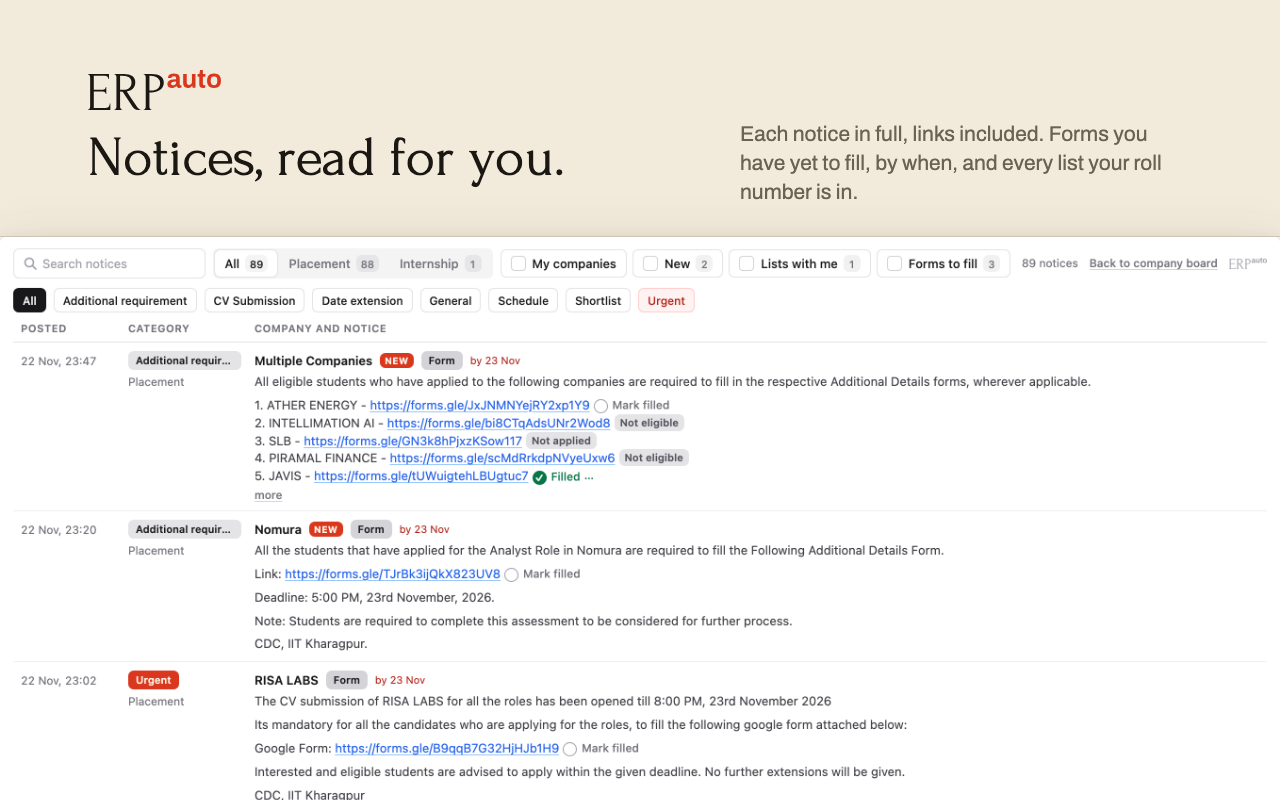
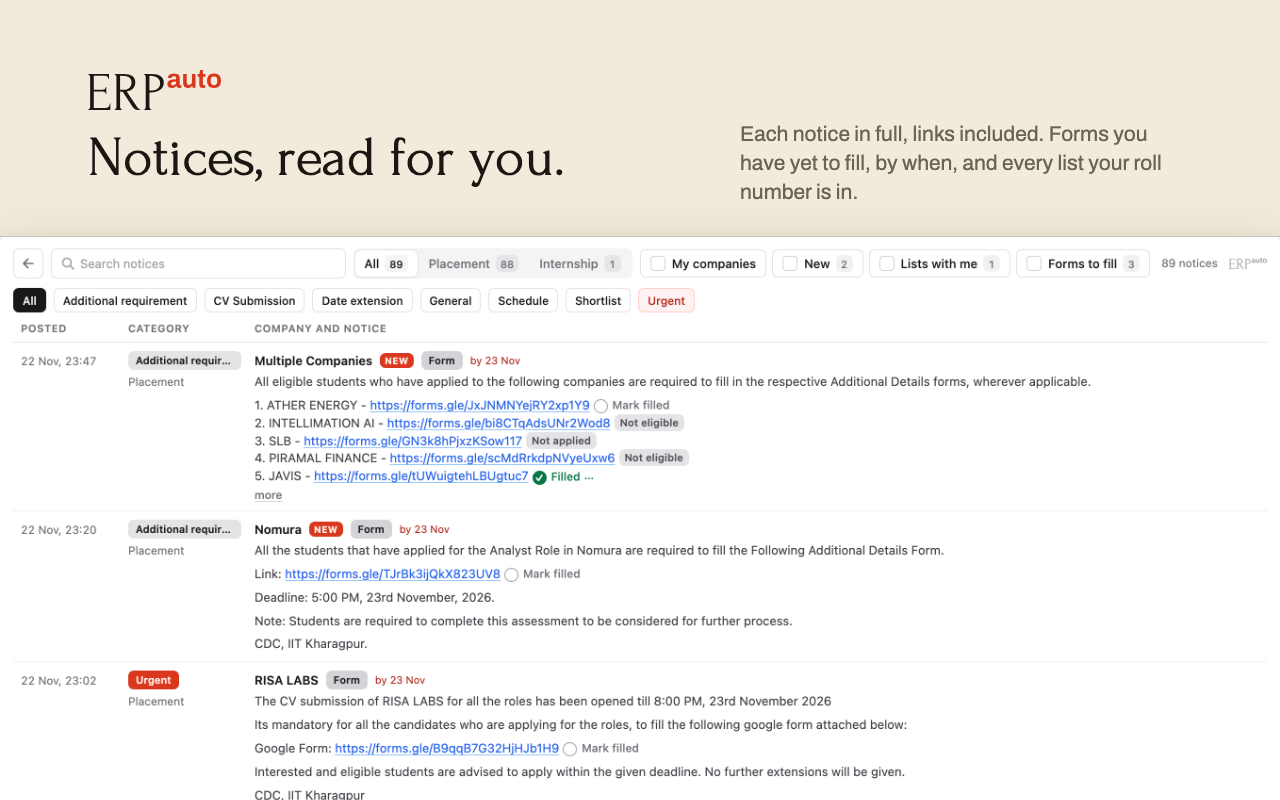
feat: notice board back button is an arrow beside the search box

Changed region(s): [[0.1562, 0.3125, 0.6562, 0.3438], [0.6875, 0.3125, 0.9375, 0.3438], [0.0312, 0.3125, 0.125, 0.3438]]

diff --git a/extension-src/chrome/js/cdc-notices.js b/extension-src/chrome/js/cdc-notices.js
@@ -42,6 +42,9 @@ cdcSwitch(async (wanted) => {
         .text .gap { display: block; height: 6px; }
         .text a { color: #2563eb; text-decoration-color: #93c5fd; text-underline-offset: 2px; }
         .text a:hover { color: #1d4ed8; text-decoration-color: currentColor; }
+        #back { display: inline-flex; align-items: center; justify-content: center; flex: none; width: 32px; height: 32px; border: 1px solid var(--line);
+                border-radius: 6px; background: var(--paper); color: var(--muted); }
+        #back:hover { border-color: #d4d4d8; color: var(--ink); }
         #cats button { height: 26px; padding: 0 9px; border-radius: 6px; font-size: 12px; }
         /* Red only for urgency: under-6h deadlines, NEW and Urgent notices. */
         #cats button[data-cat="Urgent"]:not(.picked) { border-color: #fecdca; background: #fef3f2; color: var(--red-text); }
@@ -59,6 +62,8 @@ cdcSwitch(async (wanted) => {
         <section class="card" aria-label="AutoERP notice board">
             <div class="top">
                 <div class="bar">
+                    <a id="back" href="TPStudent.jsp" aria-label="Back to company board" title="Back to company board"><svg width="16" height="16" viewBox="0 0 16 16"
+                        fill="none" stroke="currentColor" stroke-width="1.6" stroke-linecap="round" stroke-linejoin="round" aria-hidden="true"><path d="M13 8H3M7.5 3.5 3 8l4.5 4.5"/></svg></a>
                     <input type="search" id="search" placeholder="Search notices" aria-label="Search notices">
                     <div class="seg" role="tablist">
                         <button id="type-all" class="picked">All<span class="n">0</span></button>
@@ -76,7 +81,6 @@ cdcSwitch(async (wanted) => {
                 </div>
                 <div class="head">
                     <small id="count"></small>
-                    <a class="link" id="back" href="TPStudent.jsp">Back to company board</a>
                 </div>
             </div>
             <div class="bar chips" id="cats"><button data-cat="" class="picked">All</button></div>

diff --git a/extension-src/firefox/js/cdc-notices.js b/extension-src/firefox/js/cdc-notices.js
@@ -42,6 +42,9 @@ cdcSwitch(async (wanted) => {
         .text .gap { display: block; height: 6px; }
         .text a { color: #2563eb; text-decoration-color: #93c5fd; text-underline-offset: 2px; }
         .text a:hover { color: #1d4ed8; text-decoration-color: currentColor; }
+        #back { display: inline-flex; align-items: center; justify-content: center; flex: none; width: 32px; height: 32px; border: 1px solid var(--line);
+                border-radius: 6px; background: var(--paper); color: var(--muted); }
+        #back:hover { border-color: #d4d4d8; color: var(--ink); }
         #cats button { height: 26px; padding: 0 9px; border-radius: 6px; font-size: 12px; }
         /* Red only for urgency: under-6h deadlines, NEW and Urgent notices. */
         #cats button[data-cat="Urgent"]:not(.picked) { border-color: #fecdca; background: #fef3f2; color: var(--red-text); }
@@ -59,6 +62,8 @@ cdcSwitch(async (wanted) => {
         <section class="card" aria-label="AutoERP notice board">
             <div class="top">
                 <div class="bar">
+                    <a id="back" href="TPStudent.jsp" aria-label="Back to company board" title="Back to company board"><svg width="16" height="16" viewBox="0 0 16 16"
+                        fill="none" stroke="currentColor" stroke-width="1.6" stroke-linecap="round" stroke-linejoin="round" aria-hidden="true"><path d="M13 8H3M7.5 3.5 3 8l4.5 4.5"/></svg></a>
                     <input type="search" id="search" placeholder="Search notices" aria-label="Search notices">
                     <div class="seg" role="tablist">
                         <button id="type-all" class="picked">All<span class="n">0</span></button>
@@ -76,7 +81,6 @@ cdcSwitch(async (wanted) => {
                 </div>
                 <div class="head">
                     <small id="count"></small>
-                    <a class="link" id="back" href="TPStudent.jsp">Back to company board</a>
                 </div>
             </div>
             <div class="bar chips" id="cats"><button data-cat="" class="picked">All</button></div>
